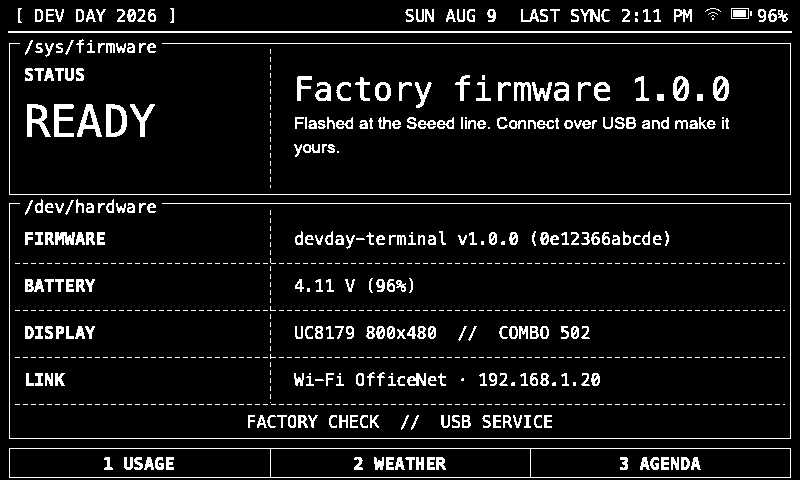
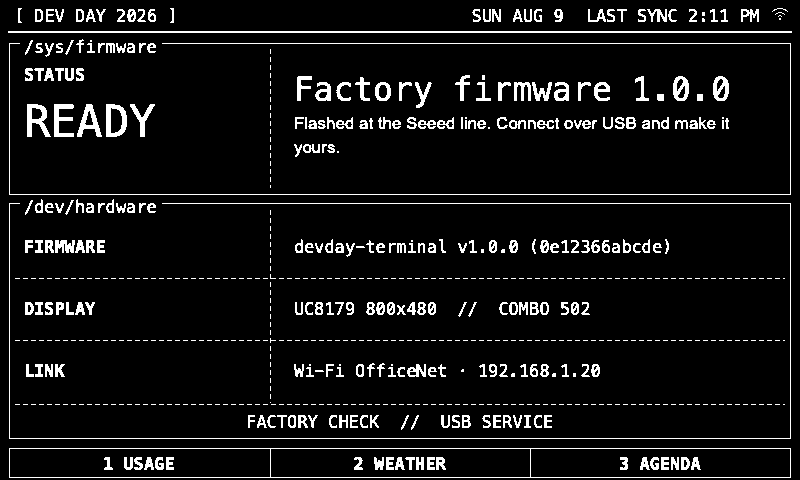
Remove battery monitoring and OTA from the firmware
- Drop battery.cpp/h and ota.cpp/h; headers end with the Wi-Fi mark, the
  Build card lists firmware, display, and link
- Portal loses POST /update and the upload form; status/factory.check lose
  battery_v, battery_pct, battery_mv, free_ota_space
- package_release.sh no longer emits the update image; docs, protocol, flash
  map, README acceptance list, and line test updated to match
- ota_0/ota_1 stay in partitions.csv as reserved space so the flash map is
  unchanged

diff --git a/web-emulator/index.html b/web-emulator/index.html
@@ -155,7 +155,6 @@
     <div class="status-grid hidden" id="status-grid">
       <div><b>Firmware</b><span id="s-fw">—</span></div>
       <div><b>Name</b><span id="s-name">—</span></div>
-      <div><b>Battery</b><span id="s-batt">—</span></div>
       <div><b>Connection</b><span id="s-conn">—</span></div>
       <div><b>Card</b><span id="s-card">—</span></div>
       <div><b>Last push</b><span id="s-push">—</span></div>
@@ -874,7 +873,6 @@ async function refreshStatus() {
     $("status-grid").classList.remove("hidden");
     $("s-fw").textContent = s.fw;
     $("s-name").textContent = s.name;
-    $("s-batt").textContent = `${s.battery_v.toFixed(2)} V (${s.battery_pct}%)`;
     $("s-conn").textContent = s.connection;
     $("s-card").textContent = s.card;
     if (!$("c-name").value) {

diff --git a/firmware/cards.cpp b/firmware/cards.cpp
@@ -148,18 +148,6 @@ static void pageTabs(const char* current) {
 #endif
 }
 
-// Battery gauge: outline + nub, fill level = charge percent.
-static void drawBatteryIcon(int16_t x, int16_t y, uint8_t pct,
-                            uint16_t color = TFT_BLACK) {
-#ifdef EPAPER_ENABLE
-  epaper.drawRect(x, y, 18, 11, color);
-  epaper.fillRect(x + 19, y + 3, 2, 5, color); // nub
-  if (pct > 100) pct = 100;
-  int16_t fill = (int16_t)((uint16_t)pct * 14 / 100);
-  if (fill > 0) epaper.fillRect(x + 2, y + 2, fill, 7, color);
-#endif
-}
-
 // Compact 1-bit Wi-Fi mark. Connected uses stepped arcs; disconnected keeps
 // the same silhouette with a separated slash, so state is visible without
 // relying on grey or a text label.
@@ -331,19 +319,14 @@ static void drawWeatherIcon(int16_t x, int16_t y, int16_t s, const String& cond,
 
 static void header(const CardContent& c, const RenderStatus& st) {
 #ifdef EPAPER_ENABLE
-  // Blossom at left; date, Wi-Fi state, battery gauge and percentage at right.
+  // Blossom at left; date and Wi-Fi state at right.
   drawBlossomIcon(MARGIN, 8);
   epaper.setFreeFont(&FreeSans9pt7b);
-  const String battery_pct = String(st.battery_pct) + "%";
-  const int16_t battery_pct_w = epaper.textWidth(battery_pct, GFXFF);
-  const int16_t battery_x = W - MARGIN - battery_pct_w - 4 - 21;
-  const int16_t wifi_x = battery_x - 22;
+  const int16_t wifi_x = W - MARGIN - 16; // glyph is 16 px wide
   epaper.setTextDatum(TR_DATUM);
   if (c.header_date.length()) epaper.drawString(c.header_date, wifi_x - 4, 12, GFXFF);
-  // Both icons and the percentage share the 9pt text midline.
+  // The icon shares the 9pt text midline.
   drawWifiIcon(wifi_x, 13, st.wifi_connected);
-  drawBatteryIcon(battery_x, 13, st.battery_pct);
-  epaper.drawString(battery_pct, W - MARGIN, 12, GFXFF);
   // brutalist hairline + 1px double-rule for density
   epaper.drawFastHLine(MARGIN, 42, W - 2 * MARGIN, TFT_BLACK);
   epaper.drawFastHLine(MARGIN, 44, W - 2 * MARGIN, TFT_BLACK);
@@ -432,15 +415,9 @@ static void terminalHeader(const char* page, const CardContent& c,
   title.toUpperCase();
   epaper.drawString(title, 18, 6, GFXFF);
 
-  const String battery_pct = String(st.battery_pct) + "%";
-  const int16_t pct_right = W - 14;
-  const int16_t pct_w = epaper.textWidth(battery_pct, GFXFF);
-  const int16_t battery_x = pct_right - pct_w - 5 - 21;
-  const int16_t wifi_x = battery_x - 26;
+  const int16_t wifi_x = W - 14 - 16; // glyph is 16 px wide
   drawWifiIcon(wifi_x, 8, st.wifi_connected, TFT_WHITE, TFT_BLACK);
-  drawBatteryIcon(battery_x, 8, st.battery_pct, TFT_WHITE);
   epaper.setTextDatum(TR_DATUM);
-  epaper.drawString(battery_pct, pct_right, 6, GFXFF);
 
   const String sync = compactLastSync(c.dash_insight_right);
   const int16_t sync_right = wifi_x - 12;
@@ -462,15 +439,9 @@ static void terminalHeaderDark(const CardContent& c, const RenderStatus& st) {
   epaper.setTextDatum(TL_DATUM);
   epaper.drawString("[ DEV DAY 2026 ]", 14, 6, GFXFF);
 
-  const String battery_pct = String(st.battery_pct) + "%";
-  const int16_t pct_right = W - 12;
-  const int16_t pct_w = epaper.textWidth(battery_pct, GFXFF);
-  const int16_t battery_x = pct_right - pct_w - 5 - 21;
-  const int16_t wifi_x = battery_x - 26;
+  const int16_t wifi_x = W - 12 - 16; // glyph is 16 px wide
   drawWifiIcon(wifi_x, 8, st.wifi_connected, TFT_WHITE, TFT_BLACK);
-  drawBatteryIcon(battery_x, 8, st.battery_pct, TFT_WHITE);
   epaper.setTextDatum(TR_DATUM);
-  epaper.drawString(battery_pct, pct_right, 6, GFXFF);
 
   const String sync = compactLastSync(c.dash_insight_right);
   const int16_t sync_right = wifi_x - 12;
@@ -663,16 +634,15 @@ static void renderBuild(const CardContent& c, const RenderStatus& st) {
   drawDarkLegend("/dev/hardware", 24, 197);
   drawDashedVLine(DASH_THIRD_EDGES[1], 210, 193, TFT_WHITE);
 
-  String labels[4] = {"FIRMWARE", "BATTERY", "DISPLAY", "LINK"};
-  String values[4] = {
+  String labels[3] = {"FIRMWARE", "DISPLAY", "LINK"};
+  String values[3] = {
     String(FW_NAME " v" FW_VERSION " (") + st.fw_hash + ")",
-    String(st.battery_v, 2) + " V (" + String(st.battery_pct) + "%)",
     "UC8179 800x480  //  COMBO 502",
     st.connection,
   };
   const int16_t rows_top = 216;
-  const int16_t row_h = 47;
-  for (uint8_t i = 0; i < 4; i++) {
+  const int16_t row_h = 62;
+  for (uint8_t i = 0; i < 3; i++) {
     const int16_t row_y = rows_top + (int16_t)i * row_h;
     if (i > 0) drawDashedHLine(15, row_y, 770, TFT_WHITE);
     epaper.setFreeFont(&FreeMonoBold9pt7b);

diff --git a/firmware/portal.cpp b/firmware/portal.cpp
@@ -4,11 +4,9 @@
 #include <WiFi.h>
 
 #include "config.h"
-#include "ota.h"
 
 static WebServer server(80);
 static PortalHooks hooks_;
-static OtaSession ota_;
 static bool active_ = false;
 static bool routes_registered_ = false;
 static uint32_t started_ms_ = 0;
@@ -39,16 +37,11 @@ section{border-top:1px solid #ddd;margin-top:2rem;padding-top:1rem}
 <label>Refresh (minutes)</label><input name="refresh_minutes" type="number" min="5" value="30">
 <button type="submit">Save configuration</button>
 </form>
-<section>
-<h2>Firmware update</h2>
-<form id="upd"><input name="bin" type="file" accept=".bin" required>
-<button type="submit">Upload update</button></form>
-</section>
 <div id="msg"></div>
 <script>
 const msg = (t) => document.getElementById('msg').textContent = t;
 fetch('/api/status').then(r=>r.json()).then(s=>{
-  document.getElementById('dev').textContent = s.fw + ' · ' + s.name + ' · battery ' + s.battery_v + 'V';
+  document.getElementById('dev').textContent = s.fw + ' · ' + s.name + ' · ' + s.connection;
   const f = document.getElementById('cfg');
   f.device_name.value = s.name; f.startup_card.value = s.startup_card;
   f.wifi_ssid.value = s.wifi_ssid; f.content_url.value = s.content_url;
@@ -64,13 +57,6 @@ document.getElementById('cfg').onsubmit = async (e) => {
   else if (f.wifi_password.value) body.wifi_password = f.wifi_password.value;
   const r = await fetch('/api/config', {method:'POST', headers:{'Content-Type':'application/json'}, body:JSON.stringify(body)});
   msg(r.ok ? 'Saved. Reconnect the terminal to your Wi-Fi to apply.' : 'Save failed: ' + await r.text());
-};
-document.getElementById('upd').onsubmit = async (e) => {
-  e.preventDefault();
-  const file = e.target.bin.files[0];
-  msg('Uploading ' + file.size + ' bytes...');
-  const r = await fetch('/update', {method:'POST', headers:{'Content-Type':'application/octet-stream'}, body:file});
-  msg(r.ok ? 'Update flashed. Rebooting... ' + await r.text() : 'Update rejected: ' + await r.text());
 };
 </script></body></html>)HTML";
 
@@ -102,64 +88,11 @@ static void handleConfig() {
   }
 }
 
-static bool update_ok_ = false;
-static String update_err_;
-static bool update_failed_ = false;
-
-static void handleUpdateDone() {
-  if (update_ok_) {
-    server.send(200, "text/plain", "ok sha256=" + ota_.imageSha256());
-    delay(300);
-    hooks_.request_reboot();
-  } else {
-    ota_.abort();
-    server.send(400, "text/plain", update_err_.length() ? update_err_ : "failed");
-  }
-}
-
-// The page POSTs the raw .bin as application/octet-stream, so WebServer routes
-// the body through the *raw* path, not the multipart upload path — the payload
-// arrives in server.raw() and server.upload() is not populated at all. Content
-// length comes from clientContentLength(); header("Content-Length") is always
-// empty because WebServer consumes that header before building the header map.
-static void handleUpdateRaw() {
-  HTTPRaw& raw = server.raw();
-  if (raw.status == RAW_START) {
-    update_ok_ = false;
-    update_failed_ = false;
-    update_err_ = "";
-    if (!ota_.begin(server.clientContentLength(), update_err_)) {
-      update_failed_ = true;
-      raw.status = RAW_ABORTED;
-    }
-  } else if (raw.status == RAW_WRITE) {
-    if (update_failed_) {
-      raw.status = RAW_ABORTED;
-    } else if (!ota_.write(raw.buf, raw.currentSize, update_err_)) {
-      update_failed_ = true;
-      raw.status = RAW_ABORTED;
-    }
-  } else if (raw.status == RAW_END) {
-    if (update_failed_) {
-      update_ok_ = false;
-      ota_.abort();
-    } else {
-      update_ok_ = ota_.finish(update_err_);
-      update_failed_ = !update_ok_;
-    }
-  } else if (raw.status == RAW_ABORTED) {
-    update_failed_ = true;
-    ota_.abort();
-    if (update_err_.length() == 0) update_err_ = "aborted";
-  }
-}
-
 static void registerRoutes() {
   if (routes_registered_) return;
   server.on("/", HTTP_GET, handleIndex);
   server.on("/api/status", HTTP_GET, handleStatus);
   server.on("/api/config", HTTP_POST, handleConfig);
-  server.on("/update", HTTP_POST, handleUpdateDone, handleUpdateRaw);
   routes_registered_ = true;
 }
 

diff --git a/firmware/config.h b/firmware/config.h
@@ -20,11 +20,6 @@ static constexpr int PIN_BUTTON_D1 = D1; // GPIO2 - page 1 (Usage)
 static constexpr int PIN_BUTTON_D2 = D2; // GPIO3 - page 2 (Weather)
 static constexpr int PIN_BUTTON_D3 = D3; // GPIO4 - page 3 (Agenda); shared with display BUSY
 static constexpr int PIN_BUTTON_D4 = D4; // GPIO5 - Agenda; with D1, factory reset
-static constexpr int PIN_BATTERY_ADC = 1; // GPIO1 (D0) - BAT_ADC
-static constexpr int PIN_ADC_EN = 6;      // GPIO6 (D5) - ADC_EN divider enable
-
-// Seeed calibration starting point for the battery divider.
-static constexpr float BATTERY_CALIBRATION = 0.968f;
 
 // ---------------------------------------------------------------------------
 // Timing / limits

diff --git a/firmware/cards.h b/firmware/cards.h
@@ -8,8 +8,6 @@
 struct RenderStatus {
   String device_name;
   String fw_hash;        // running app SHA-256, hex, first 12 chars
-  float battery_v;
-  uint8_t battery_pct;
   bool wifi_connected;  // station link state; independent of USB/setup portal
   String connection;     // e.g. "Wi-Fi OfficeNet . 192.168.1.20", "USB setup", "Offline"
   String ap_hint;        // non-empty while the setup portal is up: SSID + password + IP

diff --git a/tools/preview/sample_content.h b/tools/preview/sample_content.h
@@ -93,8 +93,6 @@ inline RenderStatus sampleStatus() {
   RenderStatus st;
   st.device_name = "devday-terminal";
   st.fw_hash = "0e12366abcde";
-  st.battery_v = 4.11f;
-  st.battery_pct = 96;
   st.wifi_connected = true;
   st.connection = "Wi-Fi OfficeNet · 192.168.1.20";
   return st;

diff --git a/README.md b/README.md
@@ -91,7 +91,7 @@ view instead of looking like an incomplete table.
 ![Build diagnostics](docs/screens/4-build.png)
 
 **Build Diagnostics** is the factory and service view. It reports the live
-firmware hash, battery, display controller, and connection beneath
+firmware hash, display controller, and connection beneath
 `/sys/firmware` and `/dev/hardware`. It is not in the 1–3 button rotation; it
 appears when requested over USB with `card.preview`, or when explicitly saved
 as the startup card in the setup portal or `config.write`.
@@ -150,7 +150,7 @@ flash.
 
 ```
 firmware/                   Arduino sketch (the whole firmware)
-partitions.csv              16 MB map: factory + ota_0/ota_1 (3 MB each) + LittleFS
+partitions.csv              16 MB map: factory + two reserved 3 MB slots + LittleFS
 web-emulator/               assembly & setup site (Web Serial + AP fallback)
 web-emulator/emulator.html  browser emulator: real cards.cpp/buttons.cpp via WASM
 tools/                      build.sh, package_release.sh, generators
@@ -355,17 +355,14 @@ redirect page fails schema validation and the screen just never updates.
   Fetched and pushed payloads merge section by section, so a document that
   omits a section keeps the one already there.
 - Config in `Preferences`; last-good payload cached in LittleFS.
-- Battery on GPIO1 with the GPIO6 divider enabled only while measuring,
-  read through the eFuse-calibrated `analogReadMilliVolts` and mapped to
-  percent with a LiPo discharge curve (0.968 divider calibration to start).
 - On battery: renders, disconnects Wi-Fi, deep-sleeps; wakes on D1/D2/D4
   (shows that page) or the refresh timer. Stays awake during an active USB
   setup session and while the portal runs.
 - The SoftAP portal starts from USB (`ap.start`, used by the companion site)
   with generated on-screen credentials; it stops after 5 minutes.
 - Hold **D1+D4** at boot (or `factory_reset`) to clear configuration.
-- App-only updates via the portal (image-header validated, SHA-256 reported
-  back for checksum comparison); raw USB flashing stays unrestricted.
+- No OTA or portal update path; raw USB flashing is the only way to change
+  the firmware and stays unrestricted.
 
 ## Interfaces
 
@@ -378,7 +375,5 @@ redirect page fails schema validation and the screen just never updates.
 
 - Useful screen ≤8 s from cold boot without Wi-Fi.
 - Config survives 20 power cycles.
-- Correct battery/buttons/display behavior on all three samples.
-- Valid portal update succeeds; corrupted/truncated images fail.
-- Interrupted update boots the previous application.
+- Correct buttons/display behavior on all three samples.
 - USB bootloader recovery can always overwrite the factory image.

diff --git a/docs/FLASHING.md b/docs/FLASHING.md
@@ -1,5 +1,8 @@
 # Flashing & Recovery
 
+There is no over-the-air or portal update path: the only way to change the
+firmware is USB flashing, which is deliberately unrestricted.
+
 ## Factory flash (Seeed line)
 
 The packaged production image targets the EE04 display board. Older Seeed
@@ -26,28 +29,12 @@ serial `factory.check` on each unit (see docs/LINE_TEST.md).
 | `0x0` | bootloader | 0x7000 | 2nd-stage bootloader |
 | `0x8000` | partition table | 0x1000 | `partitions.csv` |
 | `0x9000` | nvs | 0x5000 | `Preferences` config |
-| `0xe000` | otadata / boot_app0 | 0x2000 | OTA boot selection initializer |
+| `0xe000` | otadata / boot_app0 | 0x2000 | boot selection initializer (always factory) |
 | `0x10000` | factory | 3 MB | ships the RC |
-| `0x310000` | ota_0 | 3 MB | portal updates |
-| `0x610000` | ota_1 | 3 MB | portal updates |
+| `0x310000` | ota_0 | 3 MB | reserved, unused |
+| `0x610000` | ota_1 | 3 MB | reserved, unused |
 | `0x912000` | nvs_keys | 0x1000 | NVS keys |
 | `0x920000` | littlefs | 6.9 MB | content cache |
-
-## Portal updates
-
-The on-demand portal (`POST /update`) accepts a plain application-only image
-(`.bin` from any Arduino build). The device validates the ESP32 image header,
-computes a SHA-256 of the received image, and reports it in the response so it
-can be compared against the published checksum in `SHA256SUMS.txt`. An
-interrupted upload never touches the running slot, so the previous application
-keeps booting. There is no update signing: the portal is already gated by the
-generated on-screen AP credentials, and raw USB flashing is open anyway.
-
-```sh
-# Any app-only binary, e.g. the packaged update image:
-curl -X POST --data-binary @devday-terminal-update-1.0.0.bin \
-  -H "Content-Type: application/octet-stream" http://192.168.4.1/update
-```
 
 ## Attendee reflashing (deliberately unrestricted)
 

diff --git a/docs/LINE_TEST.md b/docs/LINE_TEST.md
@@ -22,7 +22,7 @@ the device.
       [2026]`, `Dev Day Terminal`, and the black half-circle face with plus eyes
 - [ ] Any key leaves the splash and opens its mapped page
 - [ ] After a power cycle, the default page is Usage; without a dash payload it
-      shows the `No usage yet` setup instruction and battery percentage
+      shows the `No usage yet` setup instruction
 - [ ] Full refresh is clean: no ghosting, no torn regions, borders aligned
 - [ ] Screen persists after power removal (e-ink image retention)
 
@@ -60,7 +60,7 @@ Press-and-release; hold length must not change the result.
 - [ ] Battery polarity correct, connector fully seated
 - [ ] No display artifacts on all three pages after one full refresh each
 - [ ] Header Wi-Fi mark shows clean arcs while connected and a slash while
-      disconnected; the battery percentage and gauge remain aligned
+      disconnected
 - [ ] Usage metrics, agenda times, weather telemetry, Build diagnostics, and
       the Yours URL use crisp monospace type; columns and mixed-font baselines
       remain aligned with no clipping on long values

diff --git a/docs/PROTOCOL.md b/docs/PROTOCOL.md
@@ -42,7 +42,7 @@ Live device state.
 ```
 
 `data`: `fw`, `fw_hash` (sketch MD5), `name`, `startup_card`, `wifi_ssid`,
-`content_url`, `refresh_minutes`, `card`, `battery_v`, `battery_pct`,
+`content_url`, `refresh_minutes`, `card`,
 `connection`, `usb`, `usb_plugged`, `usb_seen_s_ago`, `uptime_s`, `boots`,
 `ap` (`active`, plus `ssid`, `ip`, `remaining_s` while the portal is up).
 
@@ -147,8 +147,8 @@ Credentials are also rendered on the terminal screen.
 Seeed line-test verification payload.
 
 `data`: `serial` (eFuse MAC), `chip`, `chip_rev`, `flash_mb`, `fw`, `fw_md5`,
-`partition`, `sketch_size`, `free_ota_space`, `display_combo` (502),
-`battery_mv`, `boots`, `littlefs_total`, `littlefs_used`, `uptime_s`.
+`partition`, `sketch_size`, `display_combo` (502),
+`boots`, `littlefs_total`, `littlefs_used`, `uptime_s`.
 
 ### `reboot`
 

diff --git a/CHANGELOG.md b/CHANGELOG.md
@@ -237,6 +237,16 @@
   committed, and included unconditionally, so the branch could never compile
   in.
 
+### Removed
+
+- **Battery monitoring and OTA.** The battery ADC, header gauge and
+  percentage, `battery_v`/`battery_pct`/`battery_mv` protocol fields, the
+  portal `POST /update` route with its `OtaSession`, and the packaged
+  `update` image are gone. USB flashing is the only firmware path; the
+  `ota_0`/`ota_1` partitions stay in the table as reserved space so the flash
+  map Seeed already has is unchanged. Deep sleep and wake behaviour are
+  untouched.
+
 ### Fixed
 
 - **Line test resets every unit before packing.** `docs/LINE_TEST.md` gains a
